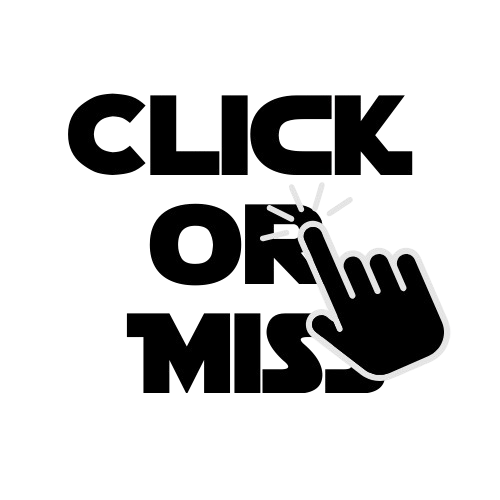
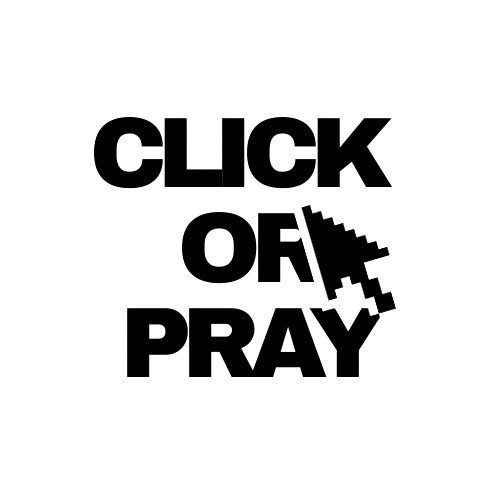
Add files via upload

Changed region(s): [[0.12, 0.18, 0.9, 0.81]]

diff --git a/index.html b/index.html
@@ -3,7 +3,7 @@
 <head>
     <meta charset="UTF-8">
     <meta name="viewport" content="width=device-width, initial-scale=1.0">
-    <title>Click or Miss</title>
+    <title>Click or Pray</title>
     <link href="https://fonts.googleapis.com/css2?family=Satoshi:wght@300;400;500;600;700&display=swap" rel="stylesheet">
     <style>
         * {
@@ -68,10 +68,10 @@
 
         .primary-text {
             font-size: clamp(2.5rem, 8vw, 4.5rem);
-            font-weight: 300;
+            font-weight: 700;
             letter-spacing: -0.04em;
             line-height: 0.9;
-            margin-bottom: 24px;
+            margin-bottom: 16px;
             background: linear-gradient(180deg, #000000 0%, #525252 100%);
             -webkit-background-clip: text;
             -webkit-text-fill-color: transparent;
@@ -82,7 +82,7 @@
             font-size: 1.125rem;
             font-weight: 400;
             color: #64748b;
-            margin-bottom: 80px;
+            margin-bottom: 60px;
             letter-spacing: -0.01em;
         }
 
@@ -117,56 +117,52 @@
         .target.active {
             opacity: 1;
             transform: scale(1);
-            animation: pulse 2s infinite;
+            animation: start-pulse 2s infinite;
         }
 
         .target:hover {
             transform: scale(1.05);
-            box-shadow: 
-                0 8px 40px rgba(0, 0, 0, 0.12),
-                0 0 0 20px rgba(99, 102, 241, 0.1);
+            border-color: var(--accent);
         }
 
-        .target-inner {
-            width: 20px;
-            height: 20px;
-            background: var(--accent);
-            border-radius: 50%;
-            transition: all 0.2s ease;
+        /* New Start Button Text */
+        .start-text {
+            font-size: 0.875rem;
+            font-weight: 700;
+            letter-spacing: 0.1em;
+            text-transform: uppercase;
+            color: var(--primary);
+            z-index: 2;
         }
 
-        .target:hover .target-inner {
-            transform: scale(1.2);
-        }
-
-        @keyframes pulse {
-            0%, 100% { 
-                box-shadow: 
-                    0 4px 20px var(--shadow),
-                    0 0 0 0 rgba(99, 102, 241, 0.2);
+        @keyframes start-pulse {
+            0% { 
+                box-shadow: 0 0 0 0 rgba(99, 102, 241, 0.4);
             }
-            50% { 
-                box-shadow: 
-                    0 4px 20px var(--shadow),
-                    0 0 0 10px rgba(99, 102, 241, 0.1);
+            70% { 
+                box-shadow: 0 0 0 20px rgba(99, 102, 241, 0);
+            }
+            100% { 
+                box-shadow: 0 0 0 0 rgba(99, 102, 241, 0);
             }
         }
 
-        /* Miss State */
-        .miss-interface {
+        /* Pray State */
+        .Pray-interface {
             position: fixed;
             inset: 0;
             display: none;
             align-items: center;
             justify-content: center;
             background: linear-gradient(180deg, #fafafa 0%, #f1f1f1 100%);
+            z-index: 100;
         }
 
-        .miss-interface.active {
+        .Pray-interface.active {
             display: flex;
         }
 
-        .miss-text {
+        .Pray-text {
             font-size: clamp(3rem, 10vw, 8rem);
             font-weight: 700;
             color: #ef4444;
@@ -174,7 +170,7 @@
             letter-spacing: -0.05em;
         }
 
-        .miss-subtitle {
+        .Pray-subtitle {
             font-size: 1.125rem;
             color: #64748b;
             margin-bottom: 48px;
@@ -380,22 +376,23 @@
     <!-- Landing Interface -->
     <div class="interface" id="landingInterface">
         <div class="interface-container">
-            <img src="image__4_-removebg-preview.png" alt="Click or Miss" class="logo" width="300px">
-            <h1 class="primary-text"></h1>
-            <p class="secondary-text">That's it.</p>
+            <!-- Added Logo/Title here -->
+            <h1 class="primary-text">Click or Pray</h1>
+            <p class="secondary-text">Speed is essential. Click to begin.</p>
             <div class="target-zone">
                 <div class="target" id="entryTarget">
-                    <div class="target-inner"></div>
+                    <!-- Changed inner content to text -->
+                    <span class="start-text">START</span>
                 </div>
             </div>
         </div>
     </div>
 
-    <!-- Miss Interface -->
-    <div class="miss-interface" id="missInterface">
-        <div>
-            <div class="miss-text">Miss</div>
-            <p class="miss-subtitle">Refresh to try again.</p>
+    <!-- Pray Interface -->
+    <div class="Pray-interface" id="PrayInterface">
+        <div style="text-align: center;">
+            <div class="Pray-text">Pray</div>
+            <p class="Pray-subtitle">Too slow.</p>
             <button class="retry-button" onclick="location.reload()">Retry</button>
         </div>
     </div>
@@ -406,7 +403,7 @@
             <h2 class="arena-title">Arena</h2>
             <div class="arena-metrics">
                 <span>Hits: <strong id="hits">0</strong></span>
-                <span>Misses: <strong id="missCount">0</strong></span>
+                <span>Prayes: <strong id="PrayCount">0</strong></span>
                 <span>Accuracy: <strong id="accuracy">100%</strong></span>
             </div>
         </div>
@@ -425,11 +422,11 @@
     </div>
 
     <script>
-        class ClickOrMiss {
+        class ClickOrPray {
             constructor() {
                 this.state = 'landing';
                 this.hits = 0;
-                this.misses = 0;
+                this.Prayes = 0;
                 this.activeTargets = [];
                 
                 this.initCursor();
@@ -450,16 +447,12 @@
             }
 
             initLanding() {
+                // Simply animate the start button in. 
+                // REMOVED: The timer that killed you automatically.
                 setTimeout(() => {
                     const target = document.getElementById('entryTarget');
                     target.classList.add('active');
-                    
-                    setTimeout(() => {
-                        if (this.state === 'landing') {
-                            this.showMiss();
-                        }
-                    }, 3000);
-                }, 1500);
+                }, 500);
             }
 
             bindEvents() {
@@ -491,20 +484,25 @@
                 }, true);
             }
 
-            showMiss() {
-                this.state = 'miss';
+            showPray() {
+                this.state = 'Pray';
                 document.getElementById('landingInterface').style.display = 'none';
-                document.getElementById('missInterface').classList.add('active');
+                document.getElementById('PrayInterface').classList.add('active');
             }
 
             enterArena() {
                 this.state = 'arena';
-                document.getElementById('landingInterface').style.display = 'none';
-                document.getElementById('arena').classList.add('active');
+                
+                // Add a transition effect
+                const target = document.getElementById('entryTarget');
+                target.style.transform = 'scale(50)';
+                target.style.opacity = '0';
                 
                 setTimeout(() => {
+                    document.getElementById('landingInterface').style.display = 'none';
+                    document.getElementById('arena').classList.add('active');
                     this.spawnTarget();
-                }, 800);
+                }, 400);
             }
 
             spawnTarget() {
@@ -555,11 +553,11 @@
                 // Auto-remove
                 setTimeout(() => {
                     if (target.parentNode) {
-                        this.misses++;
+                        this.Prayes++;
                         this.updateStats();
                         target.remove();
                         
-                        if (this.misses >= 5) {
+                        if (this.Prayes >= 5) {
                             this.endGame();
                         } else {
                             setTimeout(() => {
@@ -572,9 +570,9 @@
 
             updateStats() {
                 document.getElementById('hits').textContent = this.hits;
-                document.getElementById('missCount').textContent = this.misses;
+                document.getElementById('PrayCount').textContent = this.Prayes;
                 
-                const total = this.hits + this.misses;
+                const total = this.hits + this.Prayes;
                 const accuracy = total > 0 ? Math.round((this.hits / total) * 100) : 100;
                 document.getElementById('accuracy').textContent = accuracy + '%';
                 
@@ -593,14 +591,14 @@
             }
 
             endGame() {
-                this.state = 'miss';
+                this.state = 'Pray';
                 document.getElementById('arena').classList.remove('active');
-                document.getElementById('missInterface').classList.add('active');
+                document.getElementById('PrayInterface').classList.add('active');
             }
         }
 
         // Initialize
-        new ClickOrMiss();
+        new ClickOrPray();
     </script>
 </body>
 </html>
